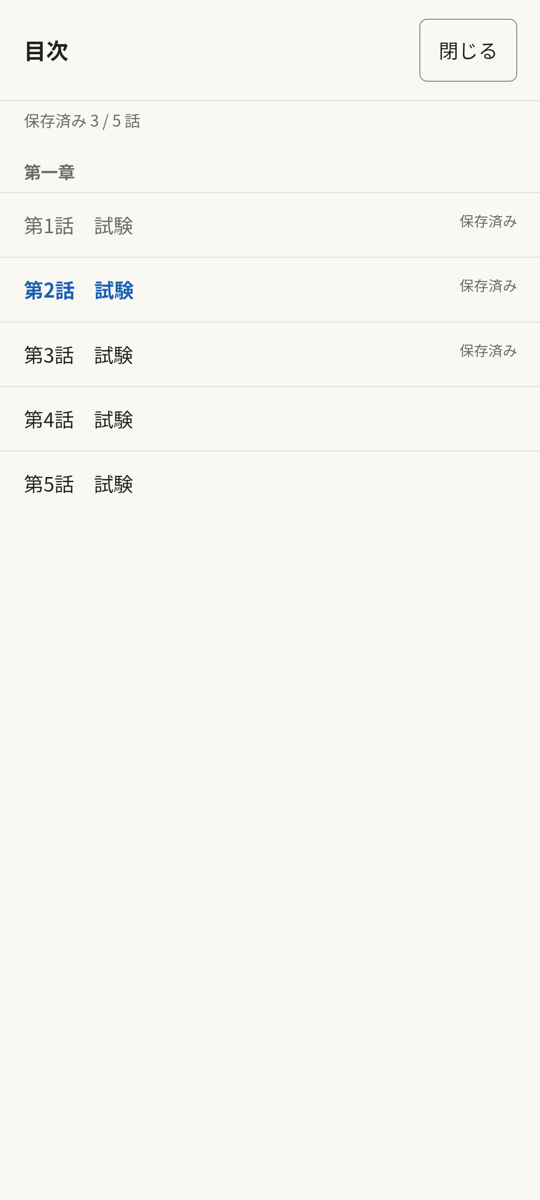
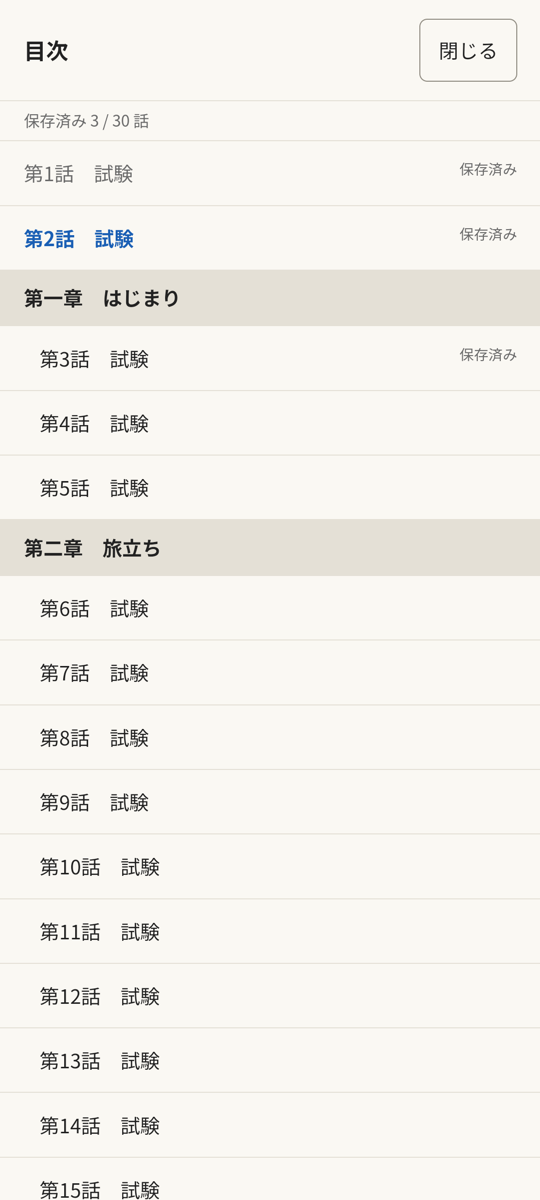
Point the download page at 0.1.3
The button, its label and the JSON-LD name the 0.1.3 APK, and the 目次
screenshot shows the chapter bands, with its alt text to match.

diff --git a/site/index.html b/site/index.html
@@ -27,7 +27,7 @@
   "applicationCategory": "BookApplication",
   "operatingSystem": "Android 13+",
   "url": "https://harusame64.github.io/tategaki-cho/",
-  "downloadUrl": "https://github.com/Harusame64/tategaki-cho/releases/download/v0.1.2/tategaki-cho-0.1.2.apk",
+  "downloadUrl": "https://github.com/Harusame64/tategaki-cho/releases/download/v0.1.3/tategaki-cho-0.1.3.apk",
   "license": "https://www.gnu.org/licenses/gpl-3.0.html",
   "inLanguage": "ja",
   "isAccessibleForFree": true,
@@ -50,7 +50,7 @@
 
   <div class="download">
     <!-- The APK itself, by version (its file name carries the version). Updated at each release (docs/release.md). -->
-    <a class="button" href="https://github.com/Harusame64/tategaki-cho/releases/download/v0.1.2/tategaki-cho-0.1.2.apk">アプリをダウンロード（APK・0.1.2）</a>
+    <a class="button" href="https://github.com/Harusame64/tategaki-cho/releases/download/v0.1.3/tategaki-cho-0.1.3.apk">アプリをダウンロード（APK・0.1.3）</a>
     <p>Android 13 以上で使えます。<br>Google Play で公開される前の試用版です。<a href="#install">インストールの手順</a>を見ながら進めてください。</p>
   </div>
 
@@ -73,7 +73,7 @@
       <figcaption>暗い背景でも読めます</figcaption>
     </figure>
     <figure>
-      <img src="images/kinari_toc.png" width="540" height="1200" alt="目次。保存済みの話に印が付いている">
+      <img src="images/kinari_toc.png" width="540" height="1200" alt="目次。章ごとに帯で分かれ、保存済みの話に印が付いている">
       <figcaption>目次で、保存済みの話が分かります</figcaption>
     </figure>
     <figure>
